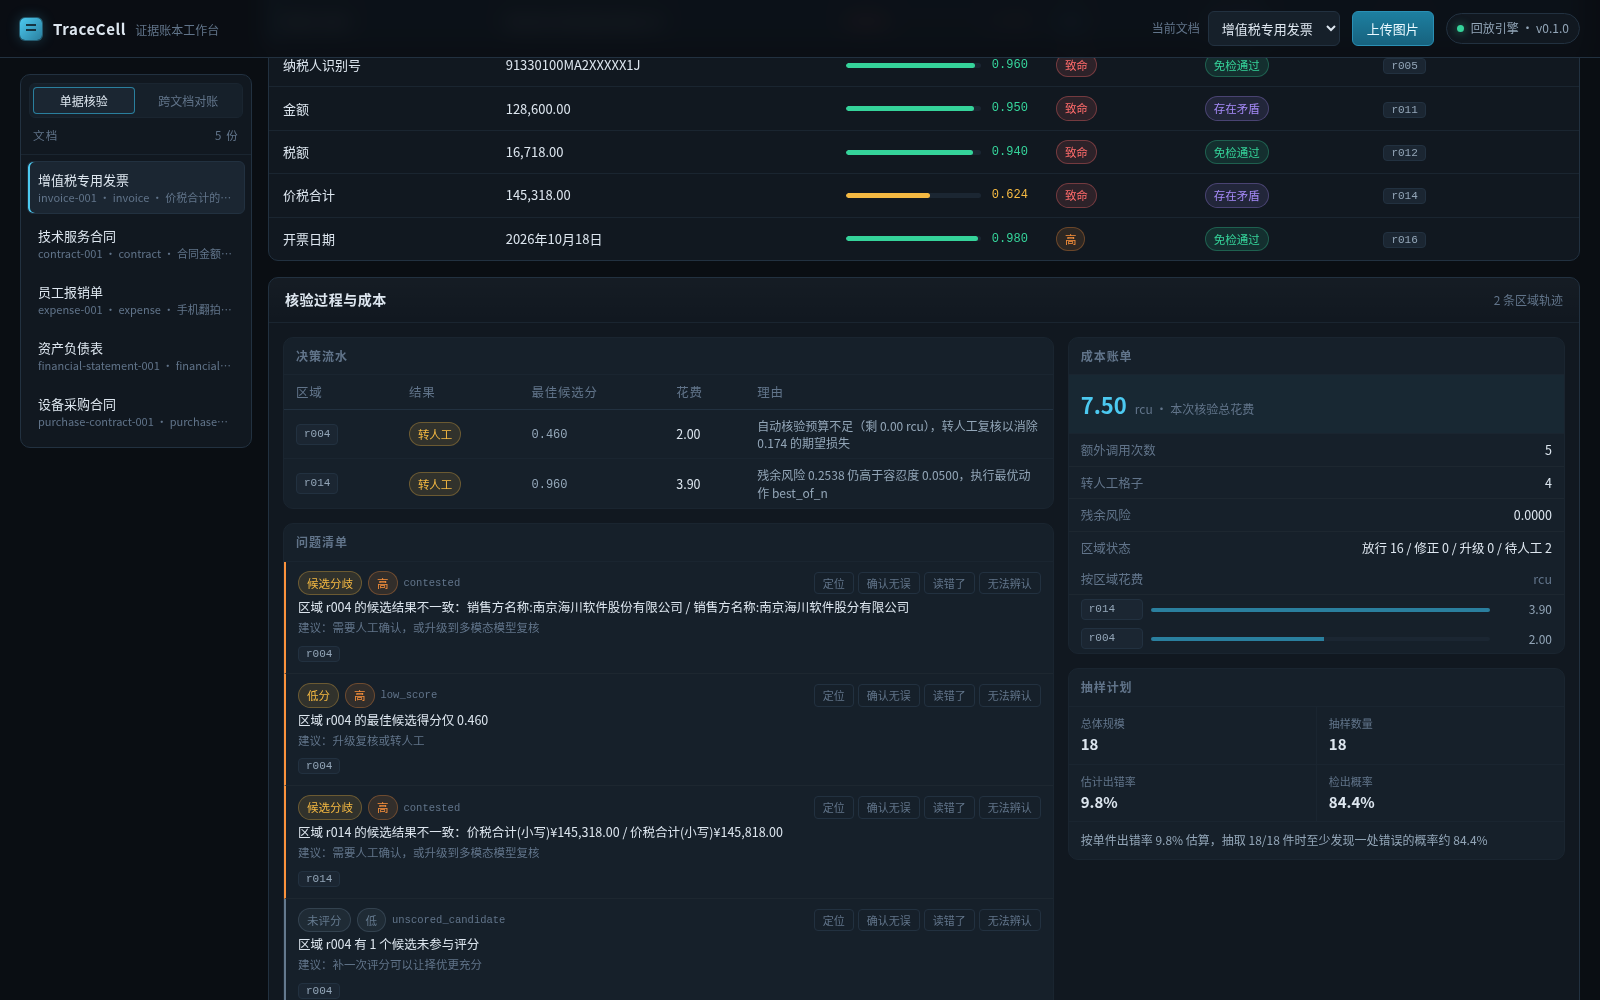
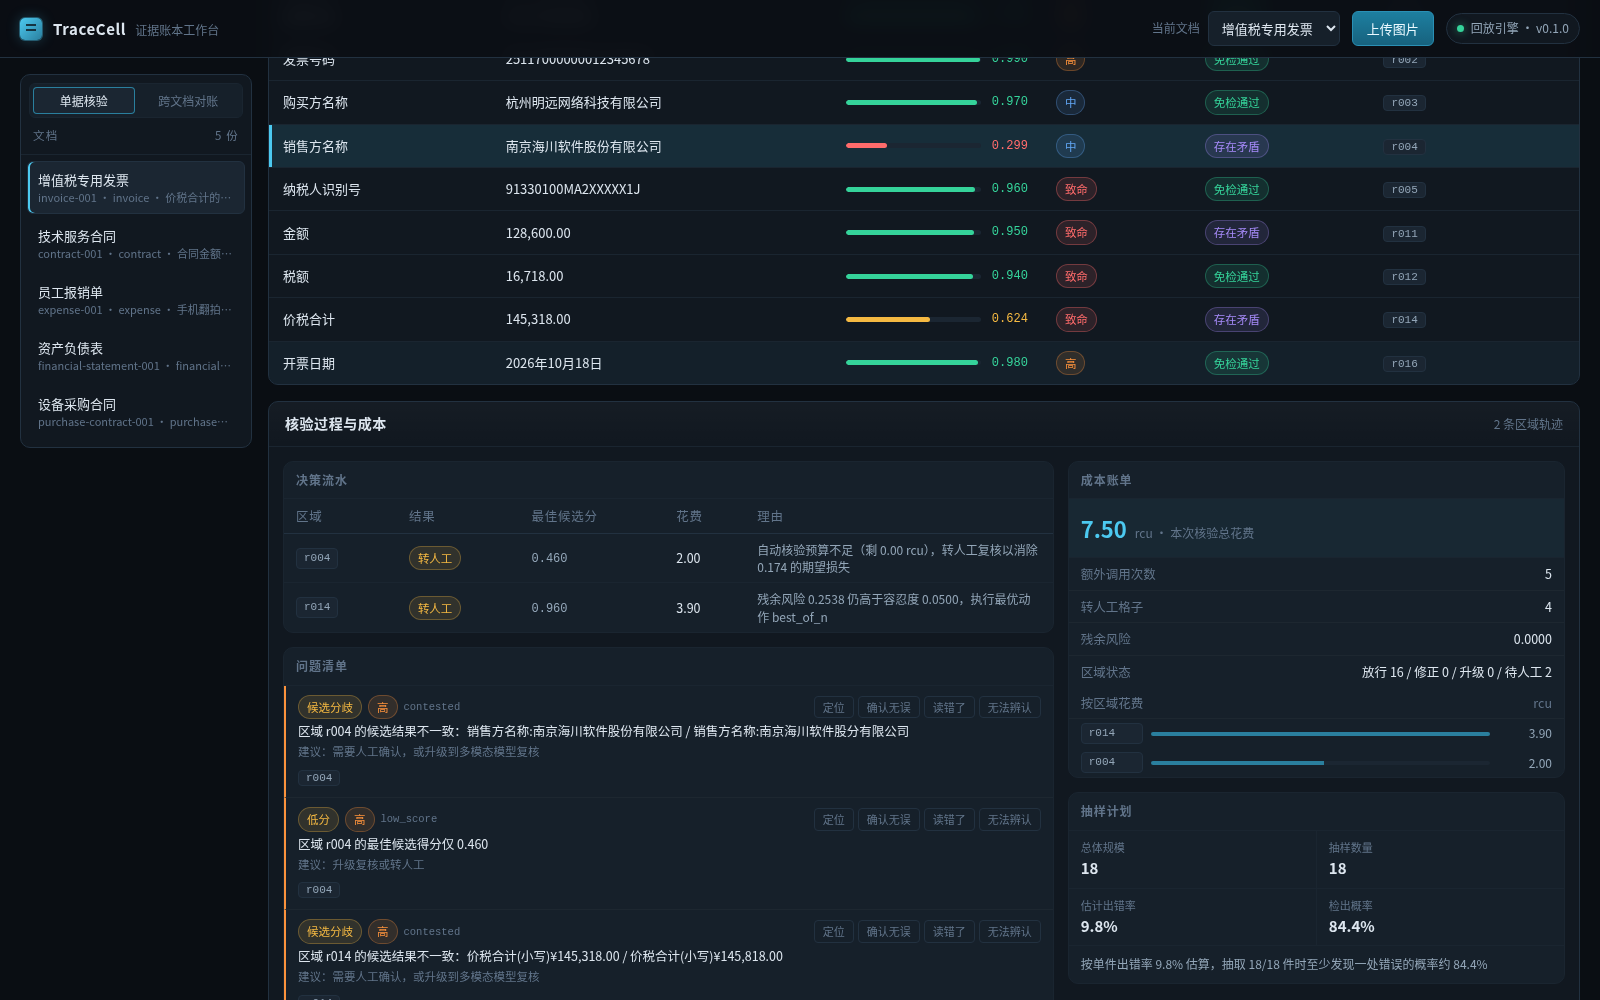
feat(layout): 可切换到官方 PP-DocLayoutV3 版面检测
ONNX 版，设个环境变量就能换。

diff --git a/src/tracecell/web/static/app.js b/src/tracecell/web/static/app.js
@@ -842,7 +842,10 @@ function fieldRowHtml(field, index) {
 function scrollToHighlight() {
   if (!state.highlightRegion) return;
   const row = $('#fieldBody tr.is-highlight');
-  if (row) row.scrollIntoView({ block: 'nearest' });
+  if (!row) return;
+  // 顶栏是吸顶的，留出它的高度，别把高亮行推到顶栏底下看不见。
+  const offset = row.getBoundingClientRect().top + window.pageYOffset - 124;
+  window.scrollTo({ top: Math.max(0, offset) });
 }
 
 /* ── 决策流水 ──────────────────────────────────────────────────────── */

diff --git a/src/tracecell/web/static/style.css b/src/tracecell/web/static/style.css
@@ -470,6 +470,7 @@ select:hover { border-color: #2d3f52; }
 .grid tbody tr.is-highlight {
   background: rgba(76, 201, 240, .12);
   box-shadow: inset 3px 0 0 var(--accent);
+  scroll-margin-top: 76px;   /* 让高亮行落在吸顶顶栏下面 */
 }
 .grid tbody tr.is-highlight:hover { background: rgba(76, 201, 240, .17); }
 .grid tbody tr:focus-visible {

diff --git a/scripts/fetch_layout_model.py b/scripts/fetch_layout_model.py
@@ -1,0 +1,83 @@
+"""下载 PP-DocLayoutV3 版面检测模型。
+
+TraceCell 自带的投影法切分器不依赖任何模型，复杂版面会偏。真要处理扫描件，
+换成官方的 PP-DocLayoutV3——这也是 MiniCPM-OCR 官方流水线用的那一个。
+
+模型是 ONNX 版（约 136MB），跑在 onnxruntime 上，不需要 PyTorch 也不需要
+PaddlePaddle。
+
+    python3 scripts/fetch_layout_model.py
+    export TRACECELL_LAYOUT_MODEL=$(python3 scripts/fetch_layout_model.py --path-only)
+
+模型文件不进仓库（太大），用环境变量指路。没设这个变量、或者 onnxruntime
+没装，TraceCell 就用自带的投影法，流程照跑不误。
+"""
+
+from __future__ import annotations
+
+import argparse
+import os
+import sys
+import urllib.request
+from pathlib import Path
+
+MODEL_REPO = "Bei0001/PP-DocLayoutV3-ONNX"
+ENDPOINTS = [
+    f"https://hf-mirror.com/{MODEL_REPO}/resolve/main/{name}"
+    for name in (
+        "PP-DocLayoutV3.onnx",
+        "PP-DocLayoutV3.onnx.data",
+        "config.json",
+        "preprocessor_config.json",
+        "inference.yml",
+    )
+]
+FALLBACK = f"https://huggingface.co/{MODEL_REPO}/resolve/main"
+
+
+def download(urls: list[str], target: Path) -> bool:
+    for url in urls:
+        try:
+            print(f"  下载 {target.name} …", flush=True)
+            with urllib.request.urlopen(url, timeout=300) as response:
+                target.write_bytes(response.read())
+            return True
+        except Exception as exc:  # noqa: BLE001 - 换下一个镜像继续
+            print(f"    {url} 失败：{exc}", file=sys.stderr)
+    return False
+
+
+def main() -> int:
+    parser = argparse.ArgumentParser(description="下载 PP-DocLayoutV3 版面检测模型")
+    parser.add_argument(
+        "--dir",
+        default=os.environ.get("TRACECELL_LAYOUT_DIR", "models/PP-DocLayoutV3"),
+        help="模型存放目录",
+    )
+    parser.add_argument("--path-only", action="store_true", help="只打印目录路径")
+    args = parser.parse_args()
+
+    target_dir = Path(args.dir).expanduser()
+    if args.path_only:
+        print(target_dir.resolve())
+        return 0
+
+    target_dir.mkdir(parents=True, exist_ok=True)
+    for url in ENDPOINTS:
+        name = url.rsplit("/", 1)[-1]
+        target = target_dir / name
+        if target.exists() and target.stat().st_size > 0:
+            print(f"  已有 {name}，跳过")
+            continue
+        if not download([url, f"{FALLBACK}/{name}"], target):
+            print(f"  下载 {name} 失败", file=sys.stderr)
+            return 1
+
+    print(f"\n模型已就绪：{target_dir.resolve()}")
+    print(f"  export TRACECELL_LAYOUT_MODEL={target_dir.resolve()}")
+    print("  pip install onnxruntime")
+    return 0
+
+
+if __name__ == "__main__":
+    raise SystemExit(main())

diff --git a/src/tracecell/providers/ocr.py b/src/tracecell/providers/ocr.py
@@ -28,6 +28,7 @@ import requests
 
 from ..types import BBox, Category, Region
 from . import layout as layout_mod
+from . import layout as layout_mod
 from .base import TASK_PROMPTS, PageParse, ParseProfile
 
 DEFAULT_TIMEOUT = 300
@@ -58,11 +59,21 @@ class OpenAICompatOcr:
         self.session = session or requests.Session()
         self.extra_body = extra_body or {}
         self._layout: Callable[[bytes], list[layout_mod.LayoutBlock]] | None = None
+        self._detector = layout_mod.get_detector()
 
     def use_layout(self, detector: Callable[[bytes], list[layout_mod.LayoutBlock]]) -> None:
-        """替换版面切分器。默认用内置的投影法实现。"""
+        """替换版面切分器。"""
 
         self._layout = detector
+
+    def use_official_layout(self, model_dir: str | None = None) -> None:
+        """改用官方 PP-DocLayoutV3 做版面切分。
+
+        没有模型或者 onnxruntime 没装的话保持原样，不报错——投影法照样能跑。
+        """
+
+        detector = layout_mod.get_detector(model_dir)
+        self._detector = detector
 
     # -- 单块识别 ---------------------------------------------------------
     def parse_region(
@@ -102,7 +113,7 @@ class OpenAICompatOcr:
     # -- 整页解析 ---------------------------------------------------------
     def parse_page(self, image: bytes, profile: ParseProfile | None = None) -> PageParse:
         profile = profile or ParseProfile()
-        detector = self._layout or layout_mod.detect
+        detector = self._layout or self._detector
         blocks = detector(image)
 
         regions: list[Region] = []

diff --git a/tests/test_production.py b/tests/test_production.py
@@ -388,3 +388,36 @@ class TestFitRepairGains:
         reparse = next(p for p in plans if p.action == "reparse")
         # 增益 0.05 远小于默认的 0.35，期望置信度应该明显更低
         assert reparse.expected_confidence < 0.5 + 0.5 * 0.35
+
+
+class TestLayoutDetectorSelection:
+    """版面检测器可切换：官方模型优先，没了就用自带的。"""
+
+    def test_falls_back_to_the_builtin_detector(self, monkeypatch):
+        from tracecell.providers import layout
+
+        monkeypatch.delenv("TRACECELL_LAYOUT_MODEL", raising=False)
+        assert layout.get_detector() is layout.detect
+
+    def test_uses_the_official_model_when_available(self, monkeypatch):
+        from tracecell.providers import layout
+
+        class Fake:
+            def __init__(self, model_dir):
+                self.model_dir = model_dir
+
+        monkeypatch.setenv("TRACECELL_LAYOUT_MODEL", "/tmp/does-not-exist")
+        monkeypatch.setattr(layout, "PaddleLayoutDetector", Fake)
+        detector = layout.get_detector()
+        assert isinstance(detector, Fake)
+
+    def test_broken_model_falls_back_instead_of_crashing(self, monkeypatch):
+        from tracecell.providers import layout
+
+        class Broken:
+            def __init__(self, model_dir):
+                raise RuntimeError("模型坏了")
+
+        monkeypatch.setenv("TRACECELL_LAYOUT_MODEL", "/tmp/broken")
+        monkeypatch.setattr(layout, "PaddleLayoutDetector", Broken)
+        assert layout.get_detector() is layout.detect

diff --git a/docs/deployment.md b/docs/deployment.md
@@ -112,7 +112,22 @@ ollama run openbmb/minicpm-v4.7
 docker-compose 里的默认模型是 35B-A3B 的 AWQ 版，24GB 卡的环境把
 `VLM_MODEL` 换成 `openbmb/MiniCPM-V-4.7-1B` 即可。
 
-### 4. 起 TraceCell
+### 4. 版面检测（可选但建议）
+
+TraceCell 自带一个投影法版面切分器，不依赖任何模型，复杂表格和多栏排版会偏。
+真要处理扫描件，换成官方的 PP-DocLayoutV3——这也是 MiniCPM-OCR 官方流水线
+用的那一个：
+
+```bash
+pip install onnxruntime
+python3 scripts/fetch_layout_model.py          # 约 136MB，ONNX 版
+export TRACECELL_LAYOUT_MODEL=$(python3 scripts/fetch_layout_model.py --path-only)
+```
+
+模型文件不进仓库，用环境变量指路。没设这个变量就继续用自带的投影法，流程
+照跑不误。
+
+### 5. 起 TraceCell
 
 ```bash
 docker compose -f deploy/docker-compose.yml up -d

diff --git a/README.md b/README.md
@@ -272,6 +272,17 @@ AUROC 1.0000
 **输入**：图片和 PDF 都收。PDF 用 pypdfium2 逐页渲染（PDFium，BSD-3 许可；
 没用 PyMuPDF 是因为它是 AGPL-3.0），多页文档逐页解析，区域记住自己在第几页。
 
+**版面切分**默认用自带的投影法，不依赖模型；装了官方的 PP-DocLayoutV3 就能换：
+
+```bash
+pip install onnxruntime
+python3 scripts/fetch_layout_model.py
+export TRACECELL_LAYOUT_MODEL=$(python3 scripts/fetch_layout_model.py --path-only)
+```
+
+模型是 ONNX 版（136MB），不用 PyTorch 也不用 PaddlePaddle。官方检测器在样例
+发票上切出 27 个区域，自带的投影法切 18 个——表格边界和标题都分得更准。
+
 **批量**：
 
 ```bash
